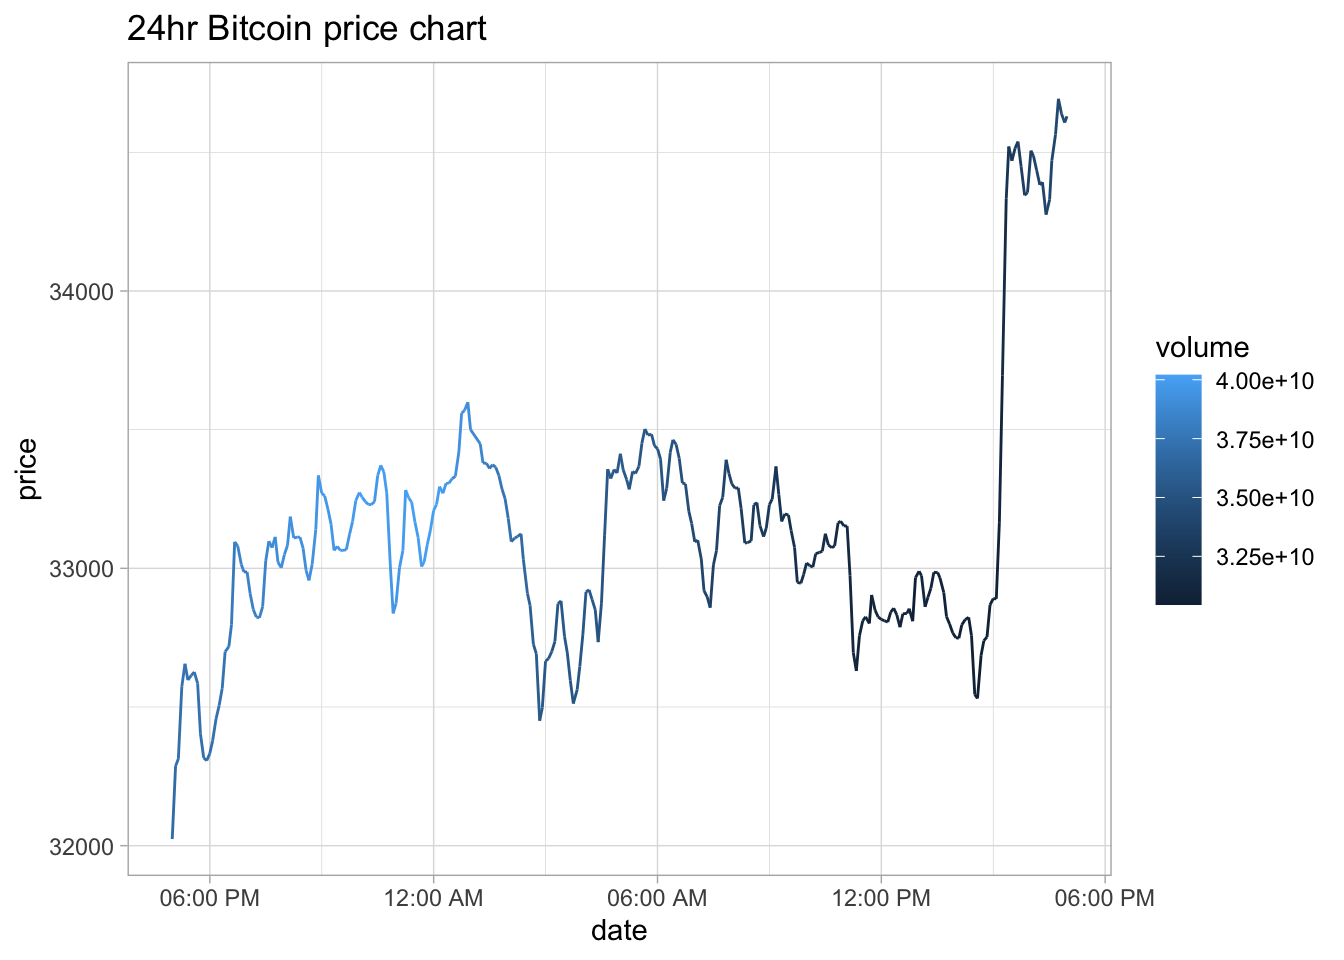
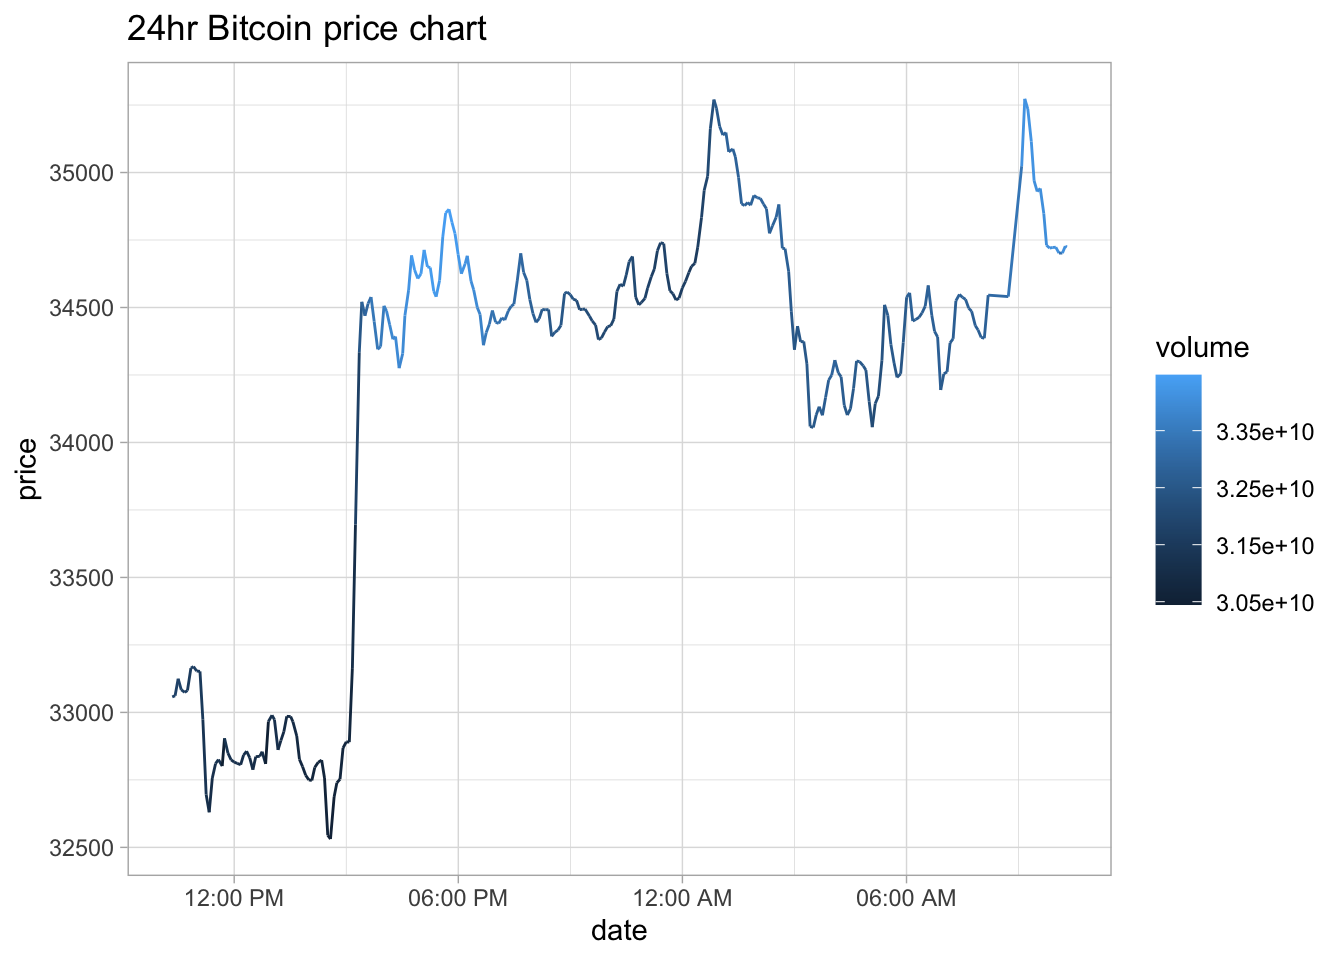
added dates and times to plot titles

diff --git a/content/post/crypto-pct-change-15m/index.html b/content/post/crypto-pct-change-15m/index.html
@@ -102,14 +102,20 @@ granular_hourly &lt;- hourly_df %&gt;%
 #   col_names = TRUE,
 #   append = TRUE
 # )
-
+library(viridis)
 granular_hourly %&gt;% 
+  mutate(granular = fct_rev(granular)) %&gt;% 
   group_by(change, granular) %&gt;% 
   count(change) %&gt;% 
   ggplot(aes(change, n, fill = granular)) +
   geom_col() +
-  labs(title = &quot;Hourly change for top 200 cryptos&quot;,
-       fill = &quot;hourly % change&quot;)</code></pre>
+  #scale_fill_viridis_d(option = &quot;viridis&quot;) +
+  #scale_fill_discrete(guide = guide_legend(reverse = TRUE)) +
+  labs(title =  paste0(&quot;Hourly change for top 200 cryptos: &quot;, format(Sys.time(), &quot;%B %d, %Y @ %I:%M %p&quot;, tz = &quot;PST8PDT&quot;)),
+       fill = &quot;hourly % change&quot;,
+       y = &quot;&quot;, x = &quot;&quot;) +
+  theme(panel.grid.major = element_blank(), 
+        panel.grid.minor = element_blank())</code></pre>
 <p><img src="{{< blogdown/postref >}}index_files/figure-html/unnamed-chunk-2-1.png" width="672" /></p>
 <pre class="r"><code>#ggsave(&quot;hrly-barchart.png&quot;)</code></pre>
 <pre class="r"><code>library(hpackedbubble)
@@ -131,12 +137,12 @@ hpackedbubble(granular_hourly$granular,
               width = &quot;100%&quot;,
               dataLabelsColor = &quot;white&quot;)</code></pre>
 <div id="htmlwidget-1" style="width:100%;height:480px;" class="hpackedbubble html-widget"></div>
-<script type="application/json" data-for="htmlwidget-1">{"x":{"cat":["luke warm (0-2%)","luke warm (0-2%)","chilly (-0-2%)","luke warm (0-2%)","chilly (-0-2%)","warm (2-4%)","luke warm (0-2%)","chilly (-0-2%)","luke warm (0-2%)","chilly (-0-2%)","luke warm (0-2%)","luke warm (0-2%)","chilly (-0-2%)","luke warm (0-2%)","luke warm (0-2%)","luke warm (0-2%)","luke warm (0-2%)","luke warm (0-2%)","luke warm (0-2%)","hot (>6%)","chilly (-0-2%)","luke warm (0-2%)","chilly (-0-2%)","luke warm (0-2%)","luke warm (0-2%)","luke warm (0-2%)","luke warm (0-2%)","luke warm (0-2%)","luke warm (0-2%)","luke warm (0-2%)","luke warm (0-2%)","luke warm (0-2%)","chilly (-0-2%)","luke warm (0-2%)","luke warm (0-2%)","luke warm (0-2%)","chilly (-0-2%)","luke warm (0-2%)","chilly (-0-2%)","luke warm (0-2%)","luke warm (0-2%)","neutral (0%)","luke warm (0-2%)","luke warm (0-2%)","chilly (-0-2%)","luke warm (0-2%)","luke warm (0-2%)","chilly (-0-2%)","chilly (-0-2%)","luke warm (0-2%)","luke warm (0-2%)","luke warm (0-2%)","luke warm (0-2%)","luke warm (0-2%)","toasty (4-6%)","chilly (-0-2%)","luke warm (0-2%)","luke warm (0-2%)","luke warm (0-2%)","chilly (-0-2%)","luke warm (0-2%)","luke warm (0-2%)","warm (2-4%)","chilly (-0-2%)","neutral (0%)","luke warm (0-2%)","luke warm (0-2%)","luke warm (0-2%)","neutral (0%)","luke warm (0-2%)","warm (2-4%)","luke warm (0-2%)","luke warm (0-2%)","luke warm (0-2%)","luke warm (0-2%)","luke warm (0-2%)","luke warm (0-2%)","chilly (-0-2%)","luke warm (0-2%)","chilly (-0-2%)","chilly (-0-2%)","luke warm (0-2%)","luke warm (0-2%)","neutral (0%)","luke warm (0-2%)","luke warm (0-2%)","chilly (-0-2%)","chilly (-0-2%)","luke warm (0-2%)","luke warm (0-2%)","luke warm (0-2%)","luke warm (0-2%)","luke warm (0-2%)","luke warm (0-2%)","chilly (-0-2%)","luke warm (0-2%)","warm (2-4%)","luke warm (0-2%)","luke warm (0-2%)","luke warm (0-2%)"],"name":["Bitcoin","Ethereum","Tether","Binance Coin","Cardano","Dogecoin","XRP","USD Coin","Polkadot","Binance USD","Bitcoin Cash","Uniswap","Litecoin","Solana","Chainlink","Polygon","Theta Network","Wrapped Bitcoin","Stellar","Internet Computer","Ethereum Classic","VeChain","Dai","TRON","Filecoin","Shiba Inu","Monero","EOS","cUSDC","Amp","cDAI","Crypto.com Coin","OKB","Aave","Algorand","Klaytn","Bitcoin SV","PancakeSwap","Cosmos","Theta Fuel","cETH","Terra","NEO","Celsius Network","Tezos","IOTA","FTX Token","LEO Token","TerraUSD","Maker","Avalanche","SafeMoon","Huobi Token","BitTorrent","THORChain","Decred","The Graph","Kusama","Hedera Hashgraph","TrueUSD","Waves","Huobi BTC","Compound","Sushi","Dash","Chiliz","Telcoin","Zcash","Elrond","yearn.finance","Quant","Lido Staked Ether","Holo","Helium","NEM","Synthetix Network Token","Enjin Coin","Paxos Standard","Zilliqa","XDC Network","Mdex","Basic Attention Token","Near","Liquity USD","Bitcoin Gold","Stacks","NEXO","HUSD","Harmony","Horizen","Bancor Network Token","Decentraland","Nano","Qtum","DigiByte","cUSDT","KuCoin Token","Curve DAO Token","Fantom","Pirate Chain"],"value":[0.4,0.4,-0.7,0.1,-0.2,2.5,1.3,-0.3,0.8,-0.7,0.3,0.8,-0.2,0.9,1.7,1.6,1.6,0.4,0.4,6.6,-0.1,0.4,-0.4,1,0.5,2,0.7,1.4,0.5,0.9,0.5,0.3,-0.1,1.3,0.6,1,-0.1,1.9,-1.1,0.4,1.1,0,1.7,0.1,-0.1,1.1,1,-0.2,-0.9,0.8,1.3,0.7,1.2,1.1,4.9,-0.3,1.4,1.4,1.1,-0.4,0.7,0.6,3.8,-0.1,0,0.5,1,1.4,-0,0.5,3.1,0.3,0.3,1.6,0.4,1.8,0.7,-0.3,0.8,-1.7,-0.3,0.8,0.8,0,0.6,1.7,-1,-0.3,0.8,0.9,1,1.5,1.2,0.8,-0.2,0.4,2.6,1.5,1.2,1.1],"theme":"darkunica","title":"Hourly percentage change","titleAlign":"center","titleSize":"20px","titleColor":"#F0FFF0","subtitle":"","subtitleAlign":"center","subtitleSize":"","subtitleColor":"#666666","pointFormat":"<br>{point.name} <\/br> Volume: {point.value}","split":0,"packedbubbleMinSize":"50%","packedbubbleMaxSize":"250%","packedbubbleZMin":0,"packedbubbleZmax":10000,"gravitational":0.02,"seriesInteraction":1,"dragBetweenSeries":0,"parentNodeLimit":1,"dataLabels":1,"dataLabelsformat":"{point.name}","dataLabelsFilter":100,"dataLabelsColor":"white"},"evals":[],"jsHooks":[]}</script>
+<script type="application/json" data-for="htmlwidget-1">{"x":{"cat":["chilly (-0-2%)","chilly (-0-2%)","chilly (-0-2%)","chilly (-0-2%)","chilly (-0-2%)","chilly (-0-2%)","chilly (-0-2%)","chilly (-0-2%)","chilly (-0-2%)","chilly (-0-2%)","chilly (-0-2%)","chilly (-0-2%)","luke warm (0-2%)","chilly (-0-2%)","chilly (-0-2%)","chilly (-0-2%)","chilly (-0-2%)","chilly (-0-2%)","chilly (-0-2%)","cold (-2-4%)","chilly (-0-2%)","chilly (-0-2%)","chilly (-0-2%)","chilly (-0-2%)","chilly (-0-2%)","chilly (-0-2%)","chilly (-0-2%)","chilly (-0-2%)","chilly (-0-2%)","warm (2-4%)","chilly (-0-2%)","luke warm (0-2%)","chilly (-0-2%)","chilly (-0-2%)","chilly (-0-2%)","chilly (-0-2%)","chilly (-0-2%)","chilly (-0-2%)","chilly (-0-2%)","chilly (-0-2%)","chilly (-0-2%)","chilly (-0-2%)","chilly (-0-2%)","chilly (-0-2%)","chilly (-0-2%)","chilly (-0-2%)","cold (-2-4%)","chilly (-0-2%)","chilly (-0-2%)","chilly (-0-2%)","chilly (-0-2%)","chilly (-0-2%)","chilly (-0-2%)","chilly (-0-2%)","chilly (-0-2%)","chilly (-0-2%)","chilly (-0-2%)","chilly (-0-2%)","chilly (-0-2%)","luke warm (0-2%)","chilly (-0-2%)","chilly (-0-2%)","chilly (-0-2%)","chilly (-0-2%)","chilly (-0-2%)","chilly (-0-2%)","chilly (-0-2%)","chilly (-0-2%)","luke warm (0-2%)","chilly (-0-2%)","chilly (-0-2%)","freezing (-4-6%)","chilly (-0-2%)","chilly (-0-2%)","chilly (-0-2%)","chilly (-0-2%)","chilly (-0-2%)","chilly (-0-2%)","chilly (-0-2%)","chilly (-0-2%)","chilly (-0-2%)","cold (-2-4%)","chilly (-0-2%)","chilly (-0-2%)","luke warm (0-2%)","chilly (-0-2%)","chilly (-0-2%)","chilly (-0-2%)","chilly (-0-2%)","chilly (-0-2%)","chilly (-0-2%)","chilly (-0-2%)","chilly (-0-2%)","chilly (-0-2%)","luke warm (0-2%)","chilly (-0-2%)","chilly (-0-2%)","chilly (-0-2%)","luke warm (0-2%)","chilly (-0-2%)"],"name":["Bitcoin","Ethereum","Tether","Binance Coin","Cardano","Dogecoin","XRP","USD Coin","Polkadot","Binance USD","Bitcoin Cash","Uniswap","Litecoin","Solana","Chainlink","Polygon","Theta Network","Wrapped Bitcoin","Stellar","Internet Computer","Ethereum Classic","VeChain","Dai","TRON","Filecoin","Shiba Inu","Monero","EOS","cUSDC","Bitcoin SV","Aave","Amp","Cosmos","cDAI","OKB","Crypto.com Coin","Algorand","PancakeSwap","Klaytn","Celsius Network","cETH","LEO Token","Terra","Theta Fuel","Tezos","IOTA","NEO","FTX Token","Maker","Avalanche","Kusama","TerraUSD","SafeMoon","Huobi Token","THORChain","Decred","BitTorrent","The Graph","Hedera Hashgraph","Compound","Sushi","TrueUSD","Waves","Huobi BTC","Dash","Chiliz","Elrond","Telcoin","Zcash","Lido Staked Ether","yearn.finance","Quant","Synthetix Network Token","Holo","Helium","NEM","Zilliqa","Enjin Coin","XDC Network","Basic Attention Token","Paxos Standard","Near","Mdex","NEXO","Bitcoin Gold","Stacks","Liquity USD","Horizen","Bancor Network Token","Decentraland","Harmony","Qtum","Nano","DigiByte","HUSD","cUSDT","Siacoin","0x","xSUSHI","Curve DAO Token"],"value":[-1.1,-1.2,-0.2,-0.4,-1,-1.4,-0.7,-0.4,-2,-0.9,-0.3,-1.4,0.1,-0.9,-0.5,-1.9,-0.9,-0.8,-1.2,-2.6,-1.8,-1,-0.2,-1.2,-1.6,-1.5,-1.1,-1.5,-0.6,3.2,-0.5,0.2,-0.7,-0.7,-0.1,-0.7,-1.6,-0.8,-0.5,-1.2,-0.7,-1.3,-0.5,-1.3,-0.5,-1.2,-2.2,-1.5,-0.7,-0.2,-0.6,-0.8,-0.9,-1.6,-1.6,-0.7,-1.3,-1.3,-1.2,0.6,-1.5,-0.6,-1,-0.9,-0.8,-1,-0.6,-1.6,0.4,-0.4,-0.9,-4.1,-1.1,-0.9,-0.4,-1.4,-1.5,-1.1,-0.7,-0.8,-0.6,-3.3,-1.5,-1,0.3,-1.4,-1.8,-1.4,-0.6,-1.5,-1.2,-1.3,-0.4,-1.2,0.7,-1,-1.9,-1.4,0.1,-0.1],"theme":"darkunica","title":"Hourly percentage change","titleAlign":"center","titleSize":"20px","titleColor":"#F0FFF0","subtitle":"","subtitleAlign":"center","subtitleSize":"","subtitleColor":"#666666","pointFormat":"<br>{point.name} <\/br> Volume: {point.value}","split":0,"packedbubbleMinSize":"50%","packedbubbleMaxSize":"250%","packedbubbleZMin":0,"packedbubbleZmax":10000,"gravitational":0.02,"seriesInteraction":1,"dragBetweenSeries":0,"parentNodeLimit":1,"dataLabels":1,"dataLabelsformat":"{point.name}","dataLabelsFilter":100,"dataLabelsColor":"white"},"evals":[],"jsHooks":[]}</script>
 <pre class="r"><code>pct_change_plot &lt;- granular_hourly %&gt;% 
   count(granular) %&gt;% 
   ggplot(aes(granular, n, fill = granular)) +
   geom_col() +
-  labs(title = &quot;Hourly percent change for top 200 cryptos&quot;,
+  labs(title = paste0(&quot;Hourly percent change for top 200 cryptos: &quot;, format(Sys.time(), &quot;%B %d @ %I:%M %p&quot;, tz = &quot;PST8PDT&quot;)),
        x = &quot;&quot;, y = &quot;Coin count&quot;) + 
   theme(legend.position = &quot;none&quot;)
 
@@ -211,7 +217,7 @@ btc_chart %&gt;%
 btc_minute_plot &lt;- q_minute %&gt;% 
   ggplot(aes(date, price, color = volume, group = 1)) +
   geom_line() +
-  labs(title = &quot;Bitcoin price chart&quot;, x = &quot;&quot;, y = &quot;&quot;) +
+  labs(title = paste0(&quot;Bitcoin price chart for &quot;, format(Sys.time(), &quot;%B %d %Y&quot;)), x = &quot;&quot;, y = &quot;&quot;) +
   theme(panel.grid.major = element_blank(), 
         panel.grid.minor = element_blank()) +
   scale_x_datetime(
